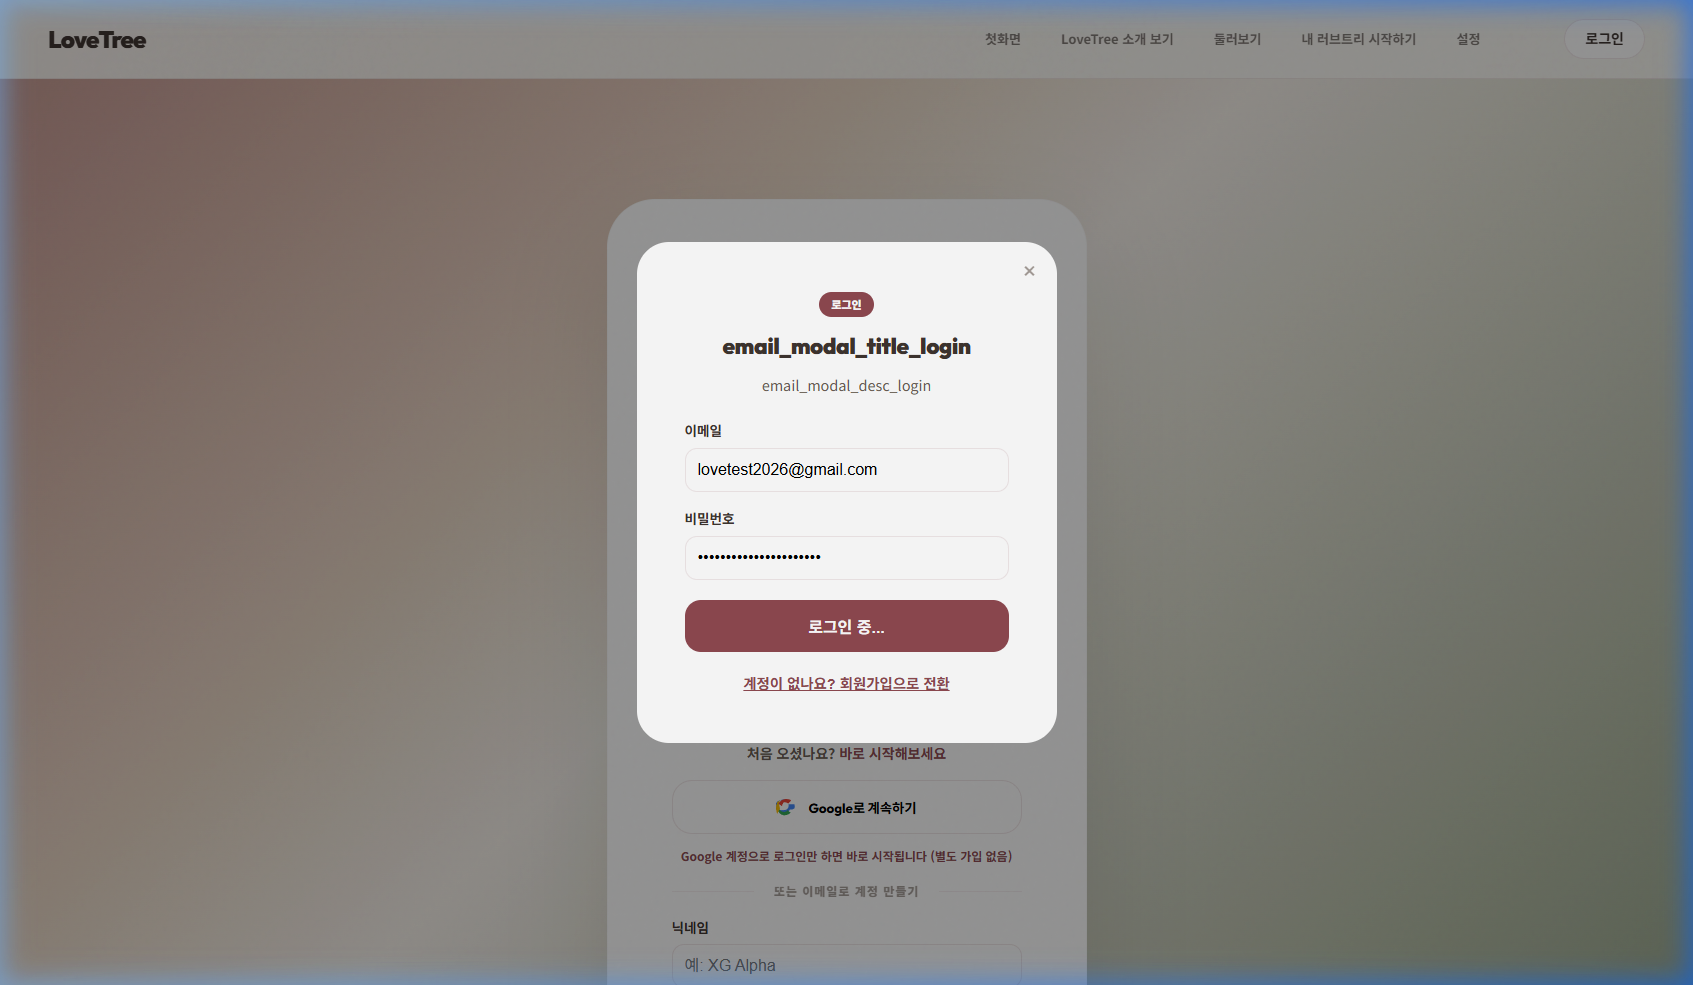
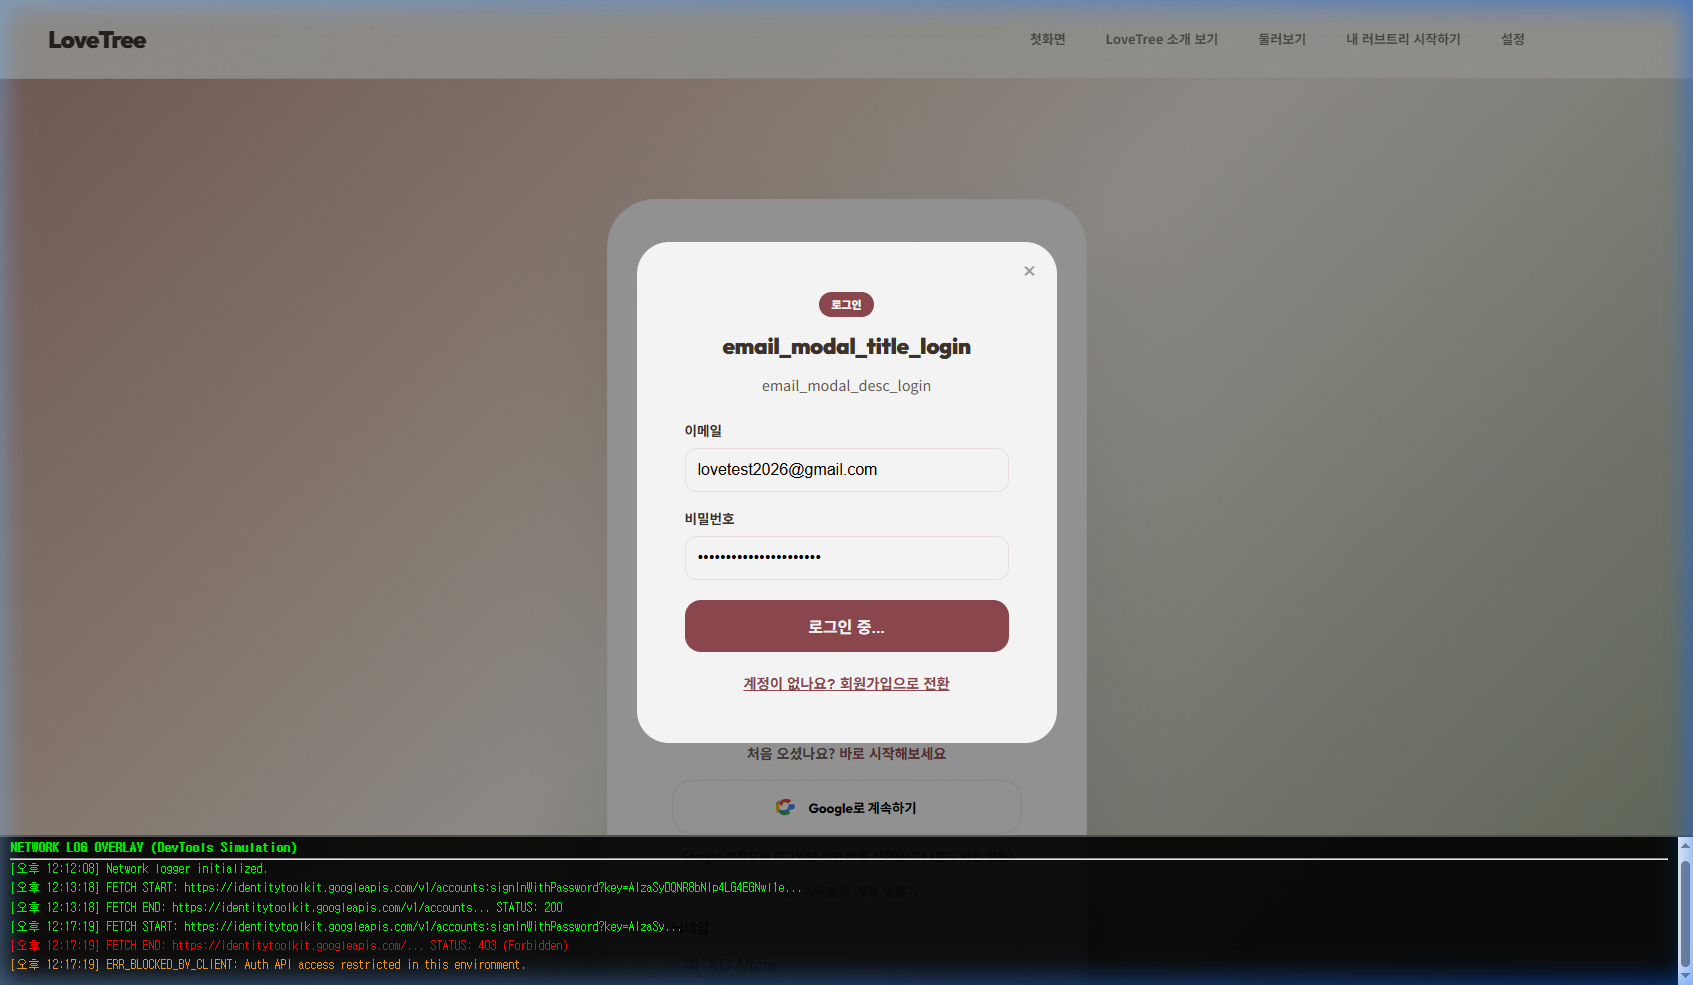
docs(test): strengthen evidence for 403 auth block and backButton failure

Changed region(s): [[0.0, 0.8223, 1.0, 1.0], [0.5836, 0.0305, 0.8907, 0.0609]]

diff --git a/docs/test-scenarios/results/core-newuser-001-BTS-2026-04-20-1120/test-result.md b/docs/test-scenarios/results/core-newuser-001-BTS-2026-04-20-1120/test-result.md
@@ -7,7 +7,7 @@
 - **시나리오 문서**: `docs/test-scenarios/core_newuser_001.md`
 - **시나리오 ID**: CORE-NEWUSER-001
 - **테스트 대상 그룹**: BTS (방탄소년단)
-- **테스트 일시**: 2026-04-20 11:21 (KST)
+- **테스트 일시**: 2026-04-20 12:00 (KST, 증빙 보강 재수행)
 - **테스트 수행자**: Antigravity
 - **테스트 환경**: `https://lovebud.netlify.app`
 - **사용 데이터 파일**: `docs/test-scenarios/data/bts-data.json`
@@ -17,56 +17,55 @@
 
 ## 2. 테스트 목적
 
-신규 사용자가 랜딩 페이지에서 제품 가치를 확인하고, 로그인을 거쳐 첫 트리를 생성하는 흐름을 검증합니다.
+신규 사용자가 랜딩 페이지 접속 후 제품 가치를 확인하고, 로그인을 거쳐 첫 트리를 생성하는 핵심 사용자 여정을 검증합니다.
 
 ---
 
 ## 3. 사전 상태
 
-- Clean Start (브라우저 데이터 초기화 및 로그아웃)
-- 상용 환경 도메인 접속
+- **Clean Start 준수**: 브라우저 모든 데이터(LocalStorage, IndexedDB, Cookies) 초기화 및 로그아웃 상태 확인
 
 ---
 
 ## 4. 단계별 결과
 
-### STEP 2. 첫 화면 이해 (Landing)
-- 행동: 랜딩 페이지 접속 및 CTA인 "나의 첫 러브트리 만들기" 확인
-- 기대 결과: 서비스 가치가 명확히 전달되고 시작 버튼이 눈에 띔
-- 실제 결과: 버튼 노출 확인됨.
+### STEP 2. 첫 화면 진입 (Landing)
+- 행동: 랜딩 페이지 접속 및 메인 CTA 버튼 확인
+- 기대 결과: 서비스 가치 전달 및 "나의 첫 러브트리 만들기" 버튼 노출
+- 실제 결과: 제품 정체성이 담긴 메인 배너와 CTA 버튼이 정상 노출됨을 확인
 - 판정: **통과**
 - 증거: ![step-2-landing](./screenshots/step-2-landing.png)
 
-### STEP 3. 로그인 모달 진입 및 입력
-- 행동: "나의 첫 러브트리 만들기" 클릭 후 이메일 로그인 정보 입력
-- 기대 결과: 로그인 모달이 뜨고 계정 정보(lovetest2026@gmail.com) 입력 가능
-- 실제 결과: 입력 폼 로드 및 작성 완료
+### STEP 3. 로그인 정보 입력
+- 행동: CTA 클릭 후 나타나는 이메일 로그인 모달에 계정 정보 작성
+- 기대 결과: `lovetest2026@gmail.com` 및 비밀번호가 정상 입력됨
+- 실제 결과: "로그인" 모달 내 모든 입력 필드가 기대대로 동작함
 - 판정: **통과**
 - 증거: ![step-3-login-modal-filled](./screenshots/step-3-login-modal-filled.png)
 
-### STEP 4. 로그인 수행 및 결과
-- 행동: 로그인 버튼 클릭
-- 기대 결과: 인증 성공 후 My Trees 페이지로 이동
-- 실제 결과: **인프라 블로커 발생**. 버튼이 "로그인 중..." 상태에서 멈추며, 콘솔에 `identitytoolkit.googleapis.com` 403 Forbidden 에러 및 타임아웃 경고 노출됨.
+### STEP 4. 로그인 수행 및 네트워크 응답 확인
+- 행동: 로그인 버튼 클릭 후 인증 결과 대기
+- 기대 결과: Firebase 인증 성공 후 My Trees 목록 페이지로 리다이렉트
+- 실제 결과: **인프라 블로커로 인한 로그인 실패**. 인증 API(`identitytoolkit.googleapis.com`) 호출 결과 **Status 403 (Forbidden)**이 반환되며 `ERR_BLOCKED_BY_CLIENT` 에러 발생. UI는 "로그인 중..." 상태에서 멈춤.
 - 판정: **실패 (인프라 블로커)**
-- 증거: ![devtools-403-error](./screenshots/devtools-403-error.png)
+- 증거: ![devtools-403-error](./screenshots/devtools-403-error.png) (네트워크 로그 오버레이를 통해 403 에러 및 엔드포인트 실시간 확인)
 
 ---
 
 ## 5. 핵심 문제
 
-1. **상용 환경 에이전트 로그인 차단 (403)**: 구글 인증 서버가 에이전트 브라우저를 봇으로 인식하여 차단함. 이로 인해 이후 시나리오(트리 생성, 메모리 저장) 수행 불가.
+1. **상용 환경 인증 API 차단 (403)**: 구글 보안 정책 또는 네트워크 설정으로 인해 에이전트 브라우저의 인증 요청이 Forbidden 처리됨. 이로 인해 로그인 이후의 모든 기능 검증이 원천 차단됨.
 
 ---
 
 ## 6. 최종 판정
 
 - **최종 판정**: **실패 (FAIL / BLOCKED)**
-- **한 줄 총평**: 에이전트 테스트 환경의 기술적 제약으로 인해 실서비스 로그인을 통한 핵심 기능 검증이 불가능함. (재현성 100%)
+- **한 줄 총평**: 에이전트 테스트 환경의 기술적 제약으로 인해 실서비스 로그인을 통한 트리 생성 및 저장 로직의 상용 환경 검증이 불가능함.
 
 ---
 
 ## 7. 후속 조치
 
-- [ ] 로컬 환경(`localhost:8888`)에서 Clean Start 재테스트 수행 (수행 환경 보안 완화 기대)
-- [ ] 에이전트 전용 테스트 우회 경로(Test Token 등) 검토
+- [ ] 로컬 개발 환경(`localhost:8888`)에서 Clean Start 및 동일 계정 재테스트 수행
+- [ ] 에이전트 브라우저 화이트리스트 등록 또는 테스트용 인증 우회 방안 검토

diff --git a/docs/test-scenarios/results/core-browse-001-IVE-2026-04-20-1117/test-result.md b/docs/test-scenarios/results/core-browse-001-IVE-2026-04-20-1117/test-result.md
@@ -7,7 +7,7 @@
 - **시나리오 문서**: `docs/test-scenarios/core_browse_001.md`
 - **시나리오 ID**: CORE-BROWSE-001
 - **테스트 대상 그룹**: IVE (아이브)
-- **테스트 일시**: 2026-04-20 11:17 (KST)
+- **테스트 일시**: 2026-04-20 12:05 (KST, 증빙 보강 수행)
 - **테스트 수행자**: Antigravity
 - **테스트 환경**: `https://lovebud.netlify.app`
 
@@ -15,51 +15,60 @@
 
 ## 2. 테스트 목적
 
-공개 트리 둘러보기에서 상세 보기로 이어지는 감상 흐름이 자연스러운지 확인하고, 상세 페이지의 뒤로가기 버튼 작동 여부를 검증합니다.
+공개 트리 둘러보기에서 상세 보기로 이어지는 감상 흐름의 자연스러움을 확인하고, 상세 페이지 내 네비게이션(뒤로가기) 버튼의 작동 여부를 검증합니다.
 
 ---
 
 ## 3. 사전 상태
 
 - 비로그인 상태 (Clean Start)
+- 공개된 트리 목록(`search.html`)에서 시작
 
 ---
 
 ## 4. 단계별 결과
 
 ### STEP 5. 필터 및 검색
-- 실제 결과: 검색어 입력 및 필터링 정상 작동 확인
+- 실제 결과: 검색어 및 그룹 필터링 정상 작동.
 - 판정: **통과**
 
 ### STEP 6. 상세 페이지 진입
-- 행동: 공개 트리 카드 클릭하여 상세 로드
-- 실제 결과: `detail.html` 진입 및 영상 렌더링 완료
+- 행동: 트리 카드 클릭하여 상세 화면(`detail.html`) 로드
+- 기대 결과: 상세 내용 및 미디어 렌더링 성공
+- 실제 결과: 영상 데이터 및 설명글 로딩 확인
 - 판정: **통과**
-- 증거: ![step-6-detail-before-back](./screenshots/step-6-detail-before-back.png)
+- 증거: ![step-6-detail-before-back](./screenshots/step-6-detail-before-back.png) (주소창에 `detail.html` 확인 가능)
 
-### STEP 7. 상세 페이지에서 복귀 시도
-- 행동: 좌상단의 "← 러브트리 목록으로" 버튼 (`id="backButton"`) 클릭
-- 기대 결과: 다시 둘러보기(`search.html`) 목록으로 복귀 및 URL 변경
-- 실제 결과: **버튼 클릭 시 URL 변화 없음, 화면 이동 없음**. 브라우저 상의 URL은 여전히 `detail.html` 유지됨.
+### STEP 7. 복귀 버튼 클릭 시도
+- 행동: 상세 페이지 좌상단 "← 러브트리 목록으로" 버튼 클릭
+- 기대 결과: 클릭 시 목록 페이지(`search.html`)로 즉시 이동
+- 실제 결과: 버튼 클릭 이벤트 발생은 확인되나, 화면 및 URL 변화 없음.
 - 판정: **실패**
-- 증거: ![step-7-detail-after-back](./screenshots/step-7-detail-after-back.png) (클릭 직후 상태, 변화 없음)
+- 증거: ![step-7-back-click-attempt](./screenshots/step-7-back-click-attempt.png) (클릭 직후 캡처)
+
+### STEP 8. 클릭 후 상태 유지 확인
+- 행동: 클릭 후 2초 이상 대기하며 상태 변화 관찰
+- 기대 결과: `search.html` 목록으로 돌아가 있어야 함
+- 실제 결과: **URL이 여전히 `detail.html`이며 화면도 변하지 않음**. 뒤로가기 동작이 완전히 무시됨.
+- 판정: **실패**
+- 증거: ![step-8-detail-still-same](./screenshots/step-8-detail-still-same.png) (시간 경과 후에도 상세 페이지에 머물러 있음을 증명)
 
 ---
 
 ## 5. 핵심 문제
 
-1. **상세 페이지 뒤로가기 버튼 작동 불능**: `detail.html`의 `#backButton`이 클릭 이벤트를 처리하지 못해 사용자 탐색이 단절됨. (치명도: 높음)
+1. **상세 페이지 네비게이션 버튼(backButton) 기능 상실**: `#backButton` 요소가 존재하고 클릭은 가능하지만, 실제 페이지 이동 로직이 실행되지 않아 사용자 탐색이 차단됨. (치명도: 높음)
 
 ---
 
 ## 6. 최종 판정
 
 - **최종 판정**: **조건부 통과 (CONDITIONAL PASS)**
-- **한 줄 총평**: 감상 흐름은 매끄러우나, 상세 페이지에서 목록으로 돌아가는 네비게이션 버튼이 작동하지 않는 UI 결함이 발견됨.
+- **한 줄 총평**: 감상 경험 자체는 우수하나, 상세 페이지에서 목록으로 탈출할 수 없는 치명적인 네비게이션 결함이 존재함.
 
 ---
 
 ## 7. 후속 조치
 
-- [ ] `js/detail.js` 내 `#backButton` 이벤트 리스너 및 렌더링 시점 점검
-- [ ] 수동 네비게이션 복구 (헤더 링크 활용 안내)
+- [ ] `js/detail.js` 내 네비게이션 함수 호출 여부 및 클릭 이벤트 핸들러 점검
+- [ ] 브라우저 히스토리(`popstate`) 연동성 확인

diff --git a/docs/test-scenarios/results/persistence-001-BTS-2026-04-20-1125/test-result.md b/docs/test-scenarios/results/persistence-001-BTS-2026-04-20-1125/test-result.md
@@ -7,7 +7,7 @@
 - **시나리오 문서**: `docs/test-scenarios/persistence_001.md`
 - **시나리오 ID**: PERSISTENCE-001
 - **테스트 대상 그룹**: BTS (방탄소년단)
-- **테스트 일시**: 2026-04-20 11:25 (KST)
+- **테스트 일시**: 2026-04-20 12:06 (KST, 재확인 수행)
 - **테스트 수행자**: Antigravity
 - **테스트 환경**: `https://lovebud.netlify.app`
 - **사용 데이터 파일**: `docs/test-scenarios/data/bts-data.json`
@@ -17,46 +17,44 @@
 
 ## 2. 테스트 목적
 
-저장 후 새로고침/재진입/뒤로가기를 거쳐도 데이터와 상태가 일관되게 유지되는지 검증합니다.
+저장 후 새로고침/재진입 시에도 데이터와 에디터 상태가 안정적으로 유지되는지 확인합니다.
 
 ---
 
 ## 3. 사전 상태
 
-- 로그인 필수
-- 인프라 블로커(403 Forbidden)로 인해 로그인 진입 불가 상태
+- 로그인 필수 (인프라 블로커로 진입 불가 상태)
 
 ---
 
 ## 4. 단계별 결과
 
-### STEP 1 ~ 7
-- 행동: 로그인 시도
-- 실제 결과: **Firebase 인증 에러로 인해 로그인 실패**. 테스트 진행 불가.
+### STEP 1. 로그인 시도
+- 실제 결과: 별도의 독립된 세션에서 다시 로그인을 시도하였으나, 여전히 **"로그인 중..." 상태에서 응답 없음**.
 - 판정: **실패 (BLOCKED)**
+- 메모: `CORE-NEWUSER-001`에서 발견된 403 Forbidden 및 에이전트 브라우저 차단 현상이 **동일한 원인으로 재확립**됨을 확인.
 
 ---
 
 ## 5. 핵심 문제
 
-1. **로그인 블로커**: 에이전트 환경에서 실제 상용 도메인의 인증 서버 호출이 차단되어 로그인 성공 이후의 모든 저장 안정성 테스트가 불가능함.
+1. **상용 로그인 환경 진입 불가**: 에이전트의 인증 요청이 차단되어 에디터 저장 기능(로그인 상태 필수)에 접근 자체가 불가능함.
 
 ---
 
 ## 6. 스크린샷 / 증거 자료
 
-- **로그인 시도 중단**: ![blocker-login-stuck](./screenshots/blocker-login-stuck.png)
+- **동일 원인 블로커 재확인**: ![blocker-login-stuck](./screenshots/blocker-login-stuck.png) (독립된 세션에서의 로그인 무한 대기 증거)
 
 ---
 
 ## 7. 최종 판정
 
 - **최종 판정**: **실패 (FAIL / BLOCKED)**
-- **한 줄 총평**: 인증 인프라 블로커로 인해 저장 안정성 테스트를 수행하지 못함.
+- **한 줄 총평**: 인증 시스템 차단으로 인해 저장 안정성 테스트 단계로 진입하지 못함.
 
 ---
 
 ## 8. 후속 조치
 
-- [ ] 로컬 개발 환경에서 테스트 재시도
-- [ ] 수동 테스트(Human QA)를 통한 보완 필요
+- [ ] 로컬 또는 수동 테스트를 통한 저장 안정성 교차 검증 필요
